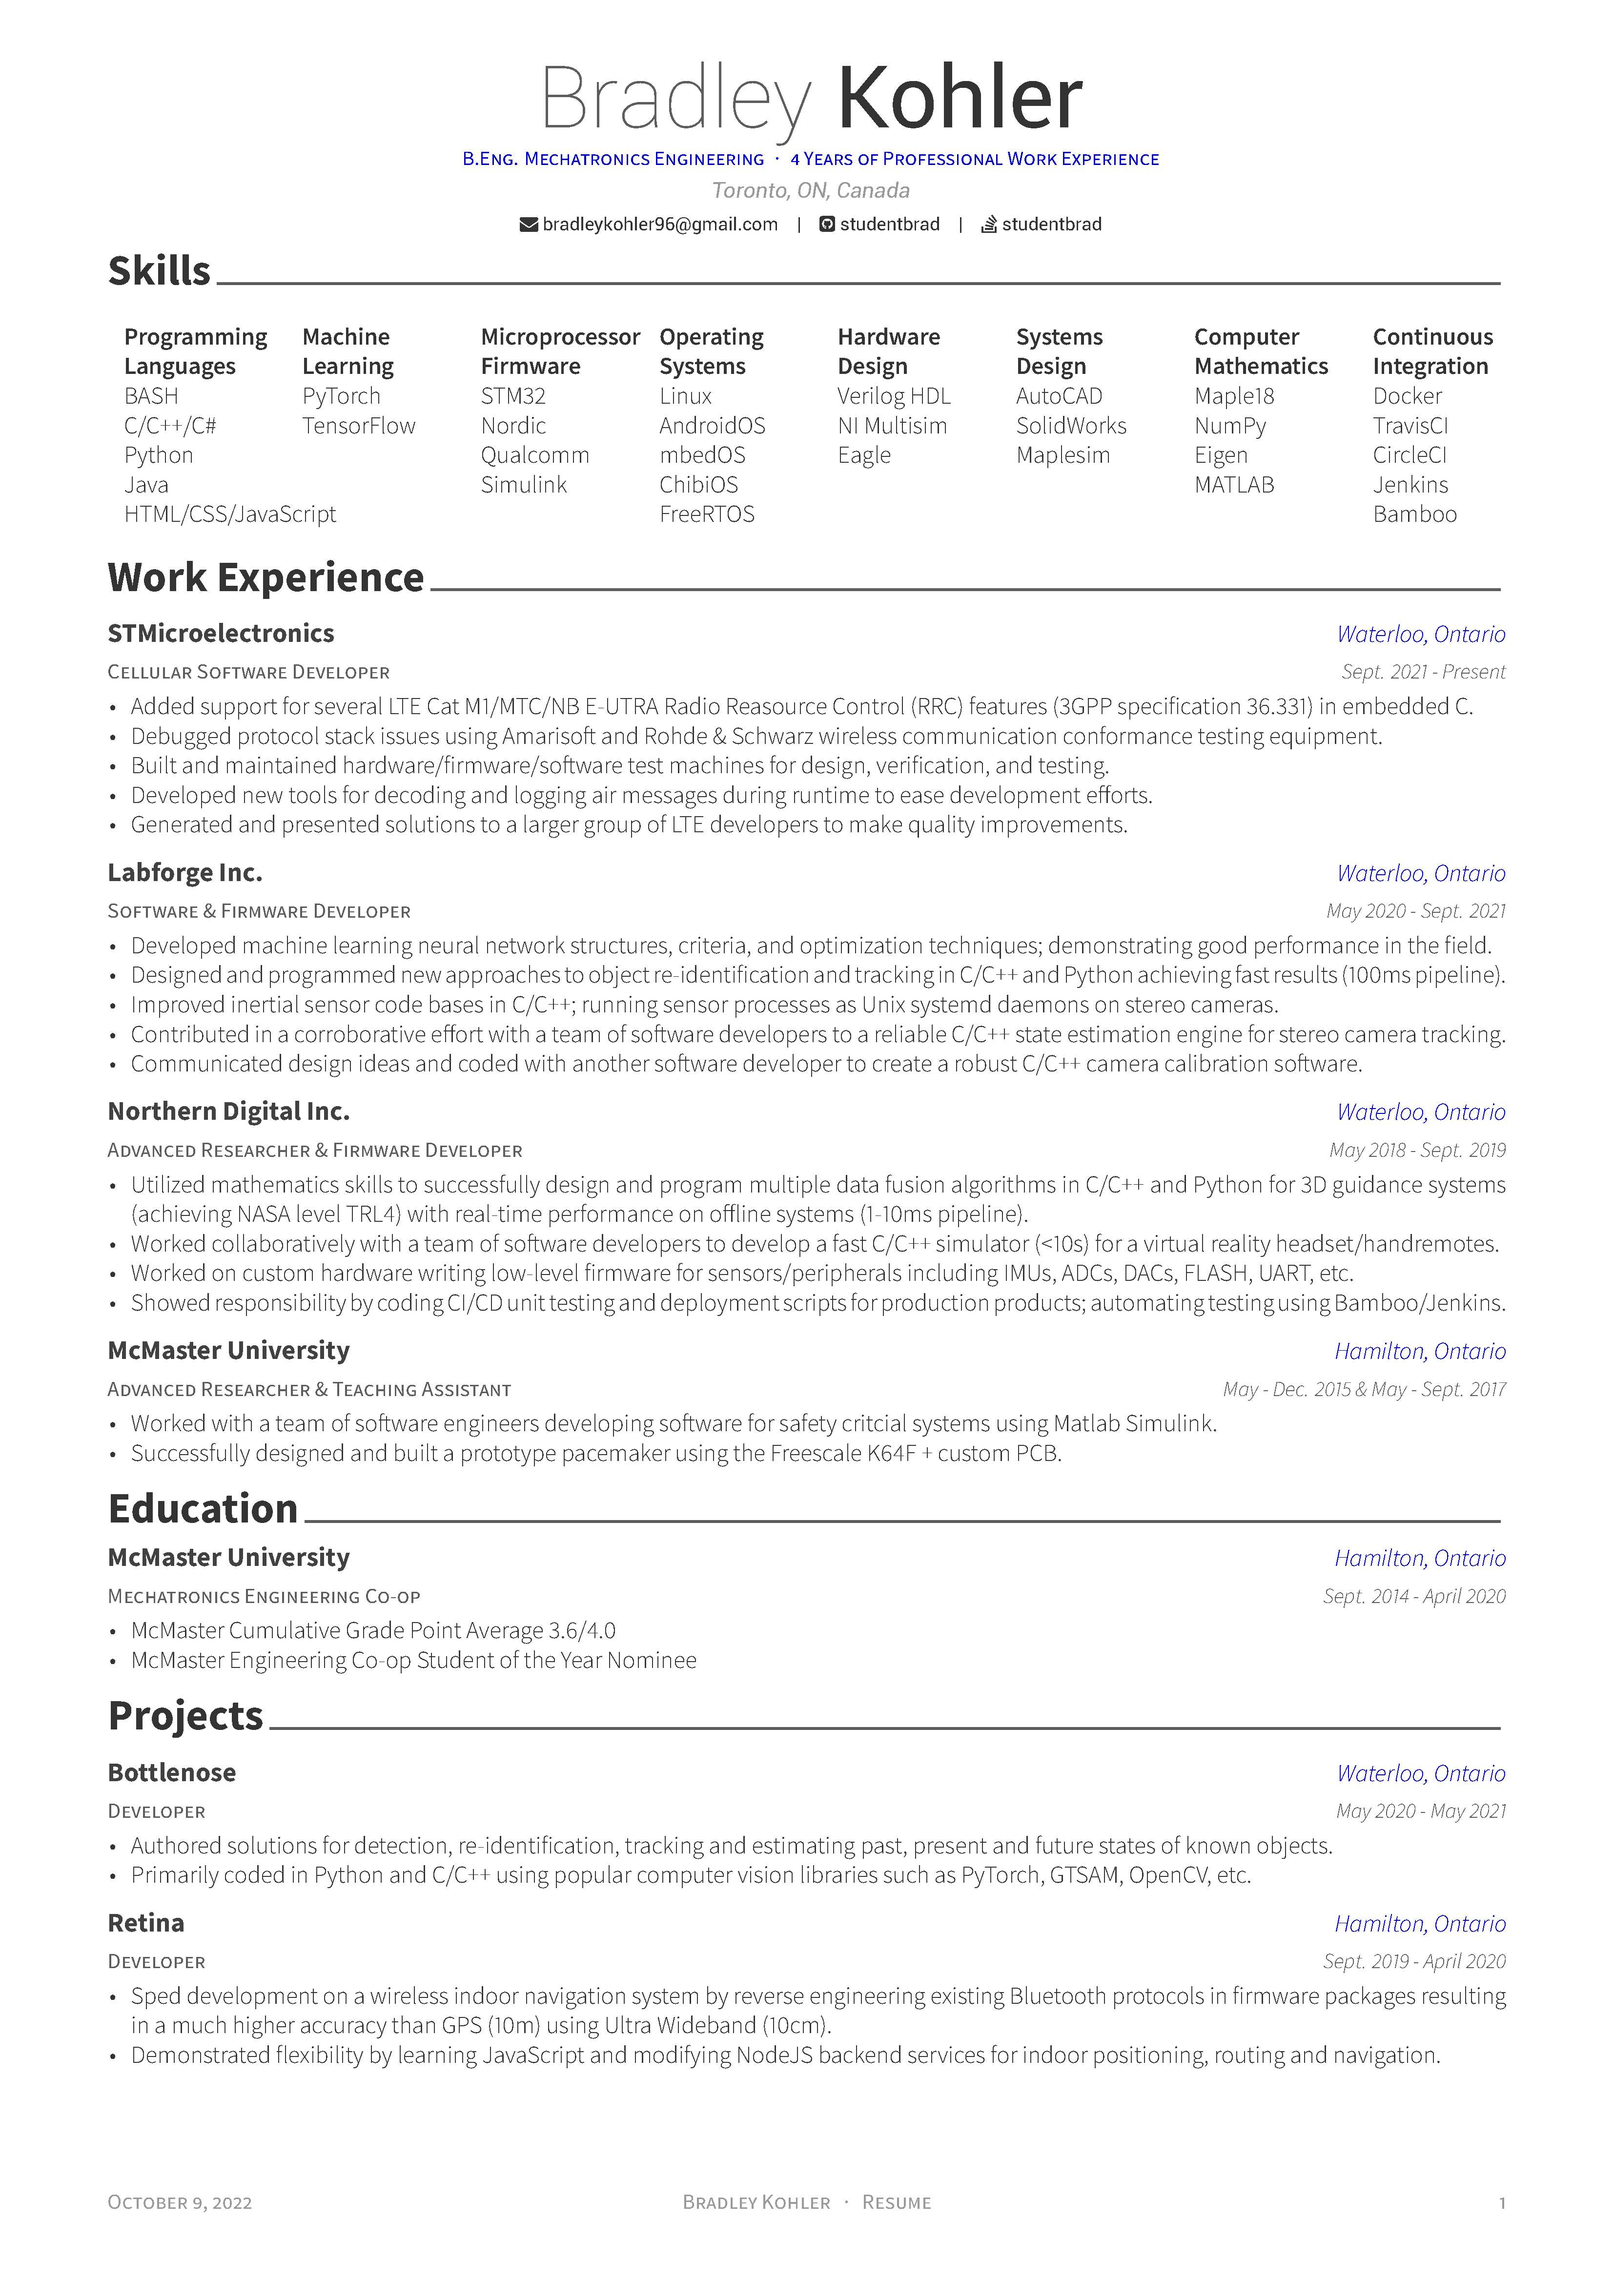
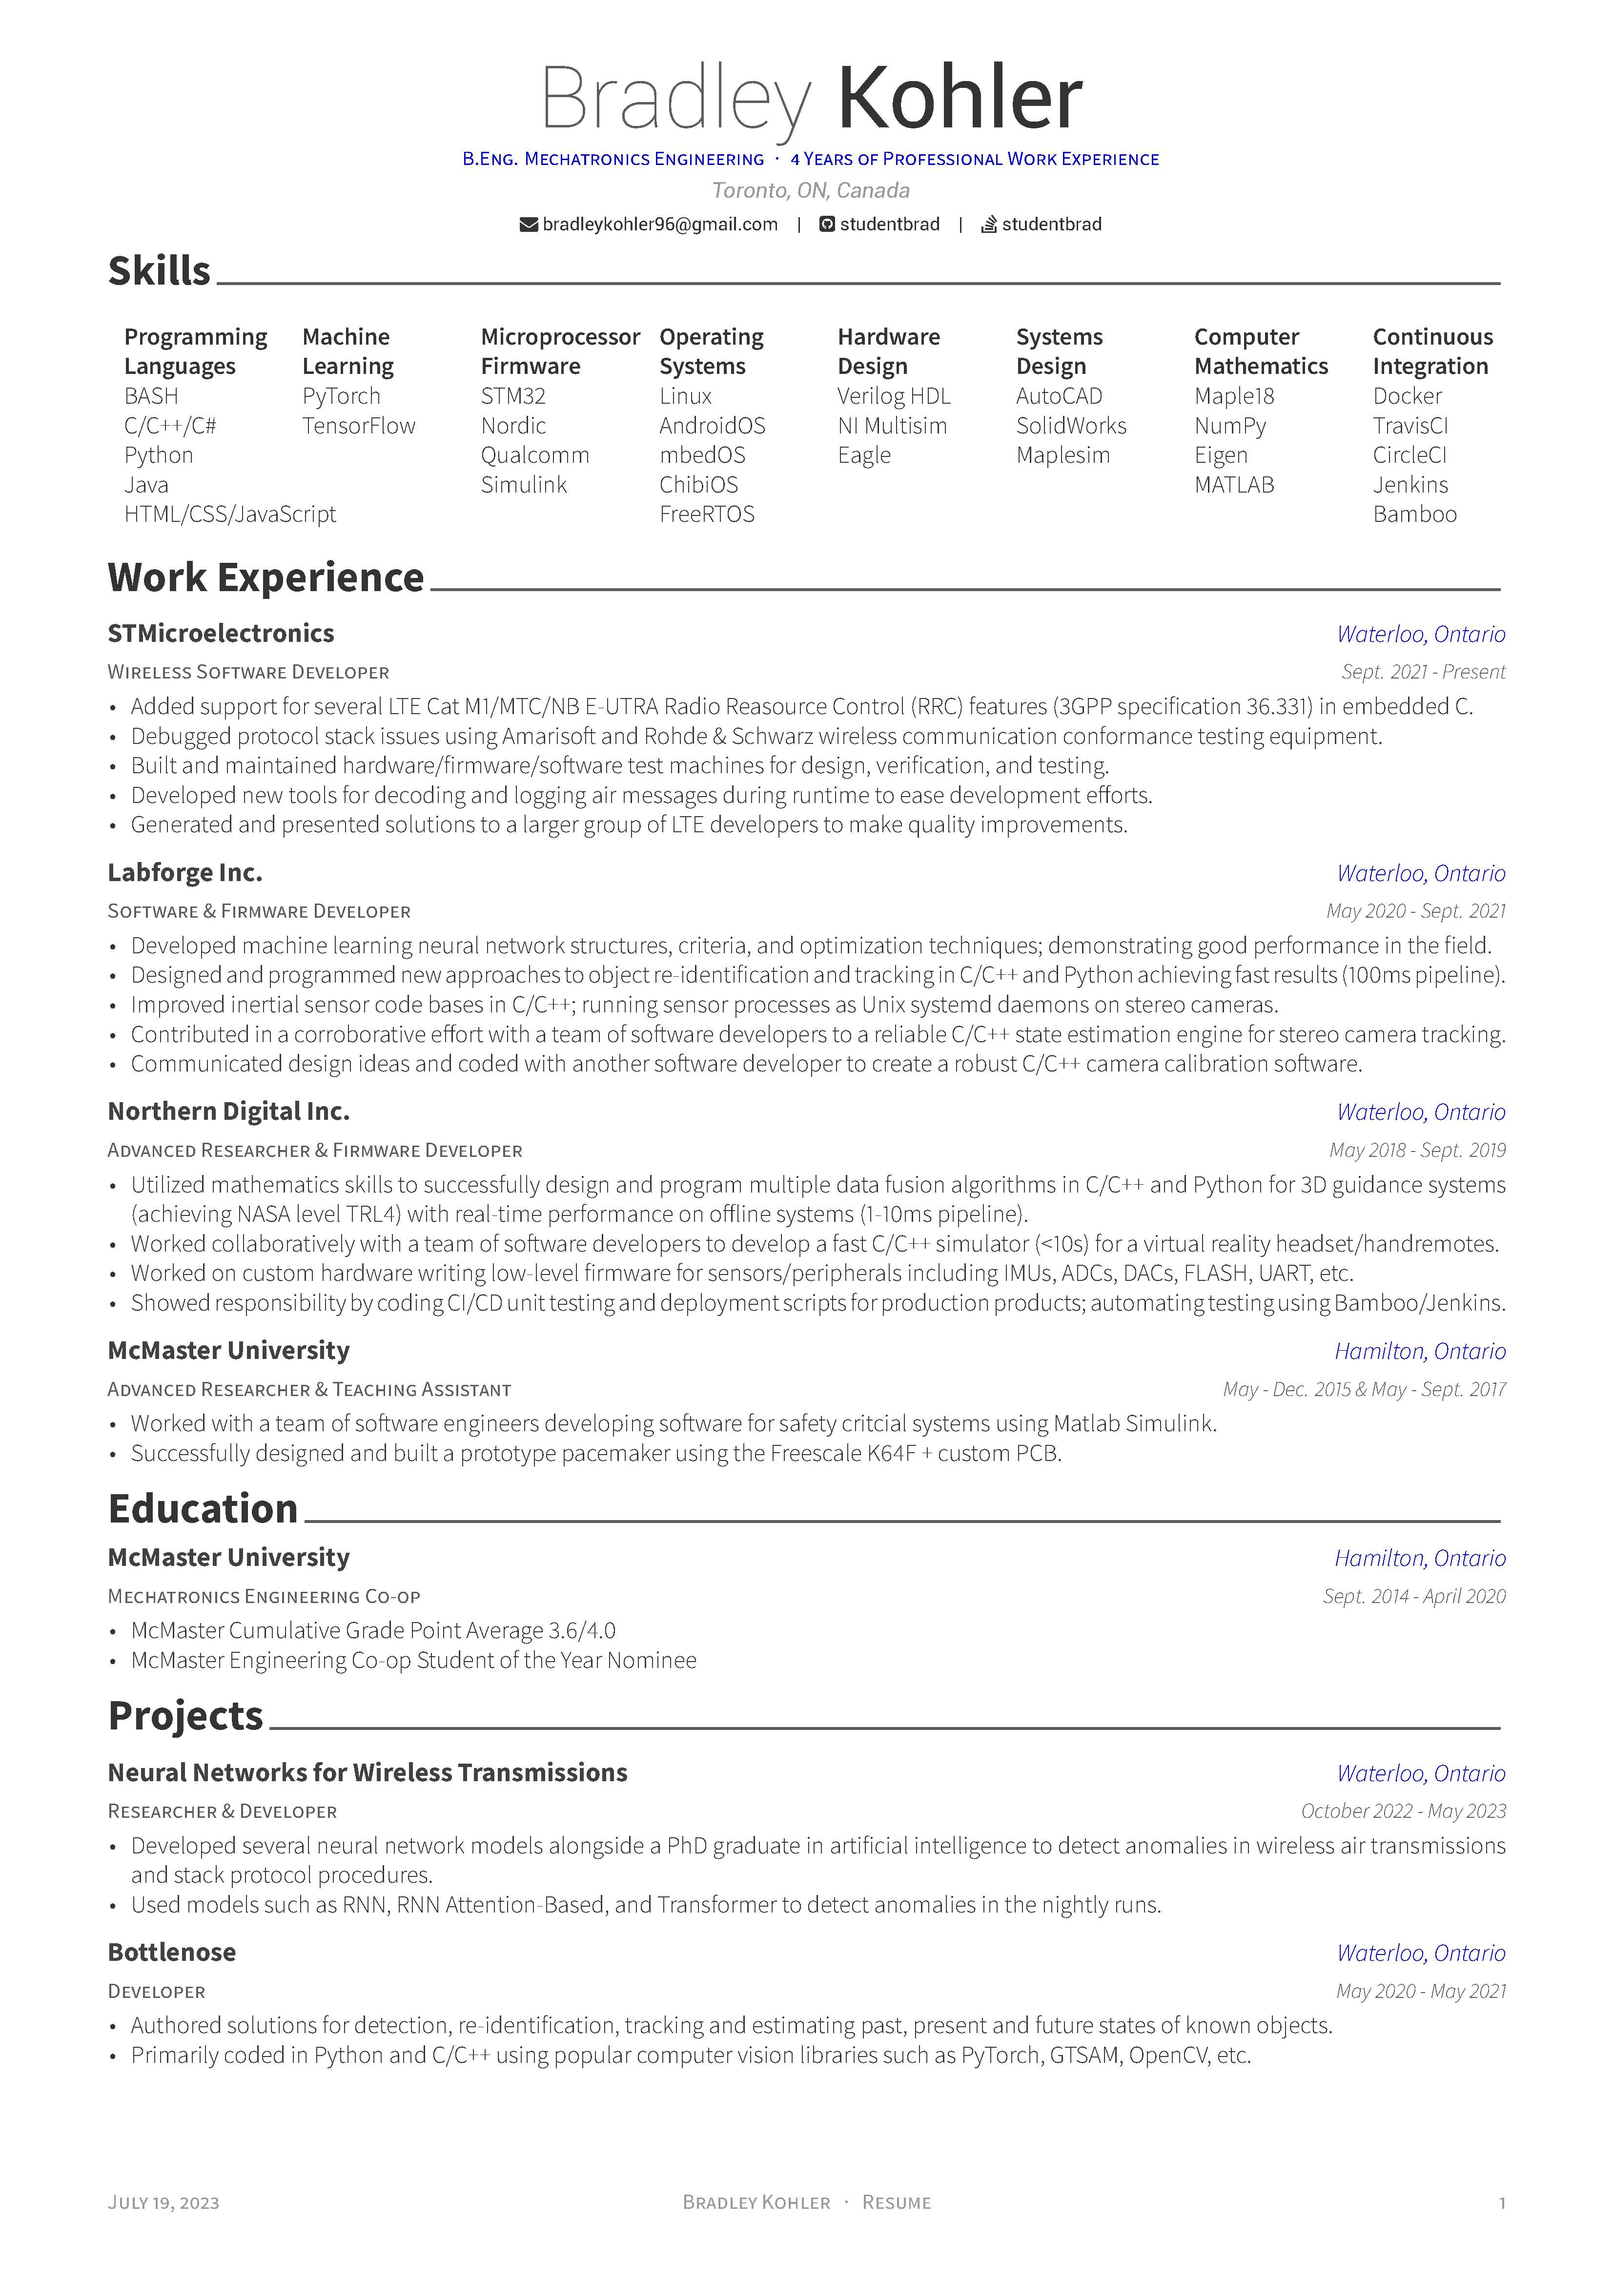
Update resume PDF with new experience/projects

diff --git a/personal_resume/projects.tex b/personal_resume/projects.tex
@@ -7,6 +7,18 @@
 %	CONTENT
 %-------------------------------------------------------------------------------
 \begin{cventries}
+%---------------------------------------------------------
+  \cventry
+    {Researcher \& Developer} % Affiliation/role
+    {Neural Networks for Wireless Transmissions} % Organization/group
+    {Waterloo, Ontario} % Location
+    {October 2022 - May 2023} % Date(s)
+    {
+      \begin{cvitems} % Description(s) of experience/contributions/knowledge
+        \item {Developed several neural network models alongside a PhD graduate in artificial intelligence to detect anomalies in wireless air transmissions and stack protocol procedures.}
+        \item {Used models such as RNN, RNN Attention-Based, and Transformer to detect anomalies in the nightly runs.}
+      \end{cvitems}
+    }
 
 %---------------------------------------------------------
   \cventry
@@ -35,17 +47,17 @@
   %   }
 
 %---------------------------------------------------------
-  \cventry
-    {Developer} % Affiliation/role
-    {Retina} % Organization/group
-    {Hamilton, Ontario} % Location
-    {Sept. 2019 - April 2020} % Date(s)
-    {
-      \begin{cvitems} % Description(s) of experience/contributions/knowledge
-        \item {Sped development on a wireless indoor navigation system by reverse engineering existing Bluetooth protocols in firmware packages resulting in a much higher accuracy than GPS (10m) using Ultra Wideband (10cm).}
-        \item {Demonstrated flexibility by learning JavaScript and modifying NodeJS backend services for indoor positioning, routing and navigation.}
-      \end{cvitems}
-    }
+  % \cventry
+  %   {Developer} % Affiliation/role
+  %   {Retina} % Organization/group
+  %   {Hamilton, Ontario} % Location
+  %   {Sept. 2019 - April 2020} % Date(s)
+  %   {
+  %     \begin{cvitems} % Description(s) of experience/contributions/knowledge
+  %       \item {Sped development on a wireless indoor navigation system by reverse engineering existing Bluetooth protocols in firmware packages resulting in a much higher accuracy than GPS (10m) using Ultra Wideband (10cm).}
+  %       \item {Demonstrated flexibility by learning JavaScript and modifying NodeJS backend services for indoor positioning, routing and navigation.}
+  %     \end{cvitems}
+  %   }
 
 %---------------------------------------------------------
 % \cventry

diff --git a/personal_resume/experience.tex b/personal_resume/experience.tex
@@ -10,7 +10,7 @@
 
 %---------------------------------------------------------
   \cventry
-    {Cellular Software Developer} % Job title
+    {Wireless Software Developer} % Job title
     {STMicroelectronics} % Organization
     {Waterloo, Ontario} % Location
     {Sept. 2021 - Present} % Date(s)
